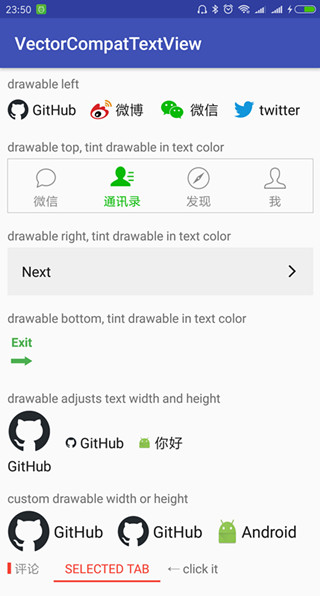
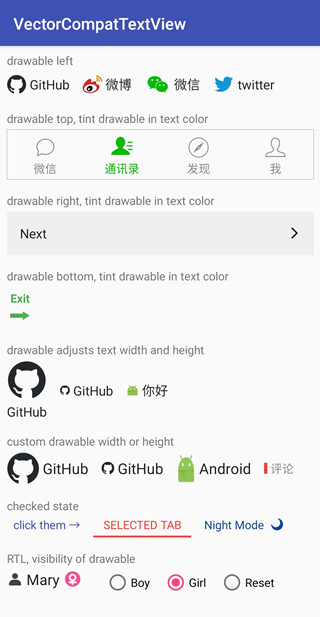
Update v2.7 sample.

diff --git a/app/src/main/java/com/xw/sample/vectorcompattextview/MainActivity.java b/app/src/main/java/com/xw/sample/vectorcompattextview/MainActivity.java
@@ -1,8 +1,10 @@
 package com.xw.sample.vectorcompattextview;
 
 import android.os.Bundle;
+import android.support.v4.content.ContextCompat;
 import android.support.v7.app.AppCompatActivity;
 import android.view.View;
+import android.widget.RadioGroup;
 
 import com.xw.repo.VectorCompatTextView;
 
@@ -13,12 +15,46 @@ public class MainActivity extends AppCompatActivity {
         super.onCreate(savedInstanceState);
         setContentView(R.layout.activity_main);
 
-        final VectorCompatTextView textView = findViewById(R.id.checkable_text_view);
-        textView.setOnClickListener(new View.OnClickListener() {
+        final VectorCompatTextView checkableTv1 = findViewById(R.id.checkable_text_view1);
+        checkableTv1.setOnClickListener(new View.OnClickListener() {
             @Override
             public void onClick(View v) {
-                textView.toggle();
-                textView.setText(textView.isChecked() ? "SELECTED TAB" : "UNSELECTED TAB");
+                checkableTv1.toggle();
+                checkableTv1.setText(checkableTv1.isChecked() ? "SELECTED TAB" : "UNSELECTED TAB");
+            }
+        });
+        final VectorCompatTextView checkableTv2 = findViewById(R.id.checkable_text_view2);
+        checkableTv2.setOnClickListener(new View.OnClickListener() {
+            @Override
+            public void onClick(View v) {
+                checkableTv2.toggle();
+                checkableTv2.setText(checkableTv2.isChecked() ? "Night Mode" : "Day Mode");
+            }
+        });
+
+        final VectorCompatTextView demoTv = findViewById(R.id.demo_tv);
+        ((RadioGroup) findViewById(R.id.radio_group)).setOnCheckedChangeListener(new RadioGroup.OnCheckedChangeListener() {
+            @Override
+            public void onCheckedChanged(RadioGroup group, int checkedId) {
+                String txt = "";
+                if (checkedId == R.id.boy_rb) {
+                    demoTv.setHideDrawable(false);
+                    new VectorCompatTextView.CompoundDrawableConfigBuilder(demoTv)
+                            .setDrawableEnd(ContextCompat.getDrawable(MainActivity.this, R.drawable.svg_ic_boy))
+                            .build();
+                    txt = "Jack";
+                } else if (checkedId == R.id.girl_rb) {
+                    demoTv.setHideDrawable(false);
+                    new VectorCompatTextView.CompoundDrawableConfigBuilder(demoTv)
+                            .setDrawableEnd(R.drawable.svg_ic_girl)
+                            .build();
+                    txt = "Mary";
+                } else if (checkedId == R.id.reset_rb) {
+                    demoTv.setHideDrawable(true);
+                    txt = "Name";
+
+                }
+                demoTv.setText(txt);
             }
         });
     }
